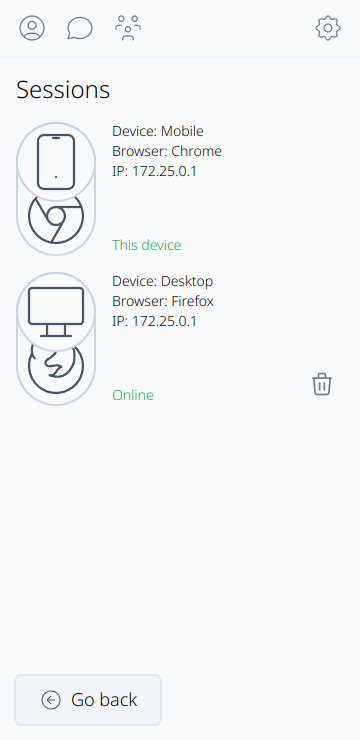
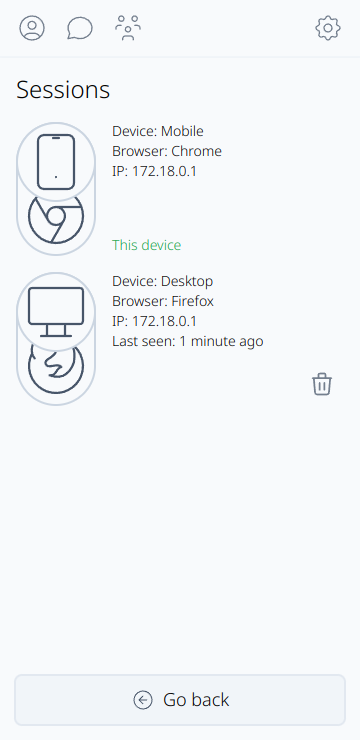
screenshot update, mobile ui fix

diff --git a/src/components/Home/Settings/Sessions/Sessions.tsx b/src/components/Home/Settings/Sessions/Sessions.tsx
@@ -263,7 +263,7 @@ function Wrapper({
             size="md"
             onClick={returnBack}
             disabled={!isFromAnotherPage}
-            className="w-36 justify-center mt-4 shrink-0"
+            className="w-full md:w-36 justify-center mt-4 shrink-0"
           >
             <IconCircleArrowLeft
               className="text-slate-600"
